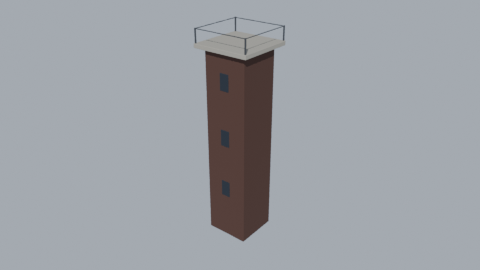
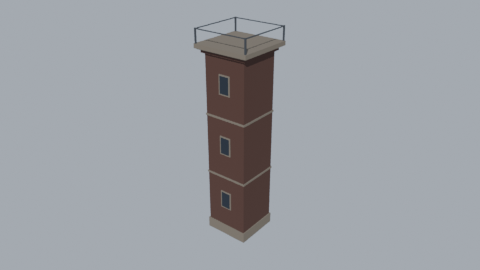
Over de daken: uitkijktoren met kroonlijst, banden en plint, zonder bevel
De toren was een kale doos met een witte plaat. Nu een getrapte bakstenen kroonlijst, zandstenen
banden, plint en raamkaders. Zonder bevel (regel 3): 252 in plaats van ruim 1100 driehoeken.

Claude-Session: https://claude.ai/code/session_01AvmxMXXNJcvRPyArPtPRyk

diff --git a/assets/blender/build_uitkijk.py b/assets/blender/build_uitkijk.py
@@ -8,14 +8,22 @@ H = 14.0
 reset()
 b = Builder("Uitkijk")
 b.box((3.2, 3.2, H), (0, 0, H / 2), "BrickDark")
-b.box((4.2, 4.2, 0.3), (0, 0, H + 0.15), "Stone")
+b.box((4.2, 4.2, 0.3), (0, 0, H + 0.15), "Sandstone")
+# a stepped brick cornice under the platform, stone string courses and a plinth: the shaft reads
+# as masonry instead of a box
+b.box((3.6, 3.6, 0.3), (0, 0, H - 0.15), "BrickDark")
+b.box((3.9, 3.9, 0.12), (0, 0, H - 0.02), "Sandstone")
+for z in (4.9, 9.4):
+    b.box((3.3, 3.3, 0.14), (0, 0, z), "Sandstone")
+b.box((3.36, 3.36, 0.8), (0, 0, 0.4), "Sandstone")
 for sx in (-1, 1):
     for sy in (-1, 1):
         b.box((0.1, 0.1, 1.0), (sx * 2.0, sy * 2.0, H + 0.8), "Metal")
     b.box((0.06, 4.0, 0.06), (sx * 2.0, 0, H + 1.25), "Metal")
     b.box((4.0, 0.06, 0.06), (0, sx * 2.0, H + 1.25), "Metal")
-for z in (4, 8, 12):
-    b.box((0.7, 0.06, 1.2), (0, -1.62, z), "WindowDark")
-b.build(bevel=0.04)
+for z in (3, 7.4, 11.8):
+    b.box((0.9, 0.08, 1.4), (0, -1.6, z), "Sandstone")        # stone frame
+    b.box((0.7, 0.06, 1.2), (0, -1.64, z), "WindowDark")
+b.build()  # architecture stays unbevelled (CLAUDE.md rule 3)
 export("uitkijk")
 preview("uitkijk")
